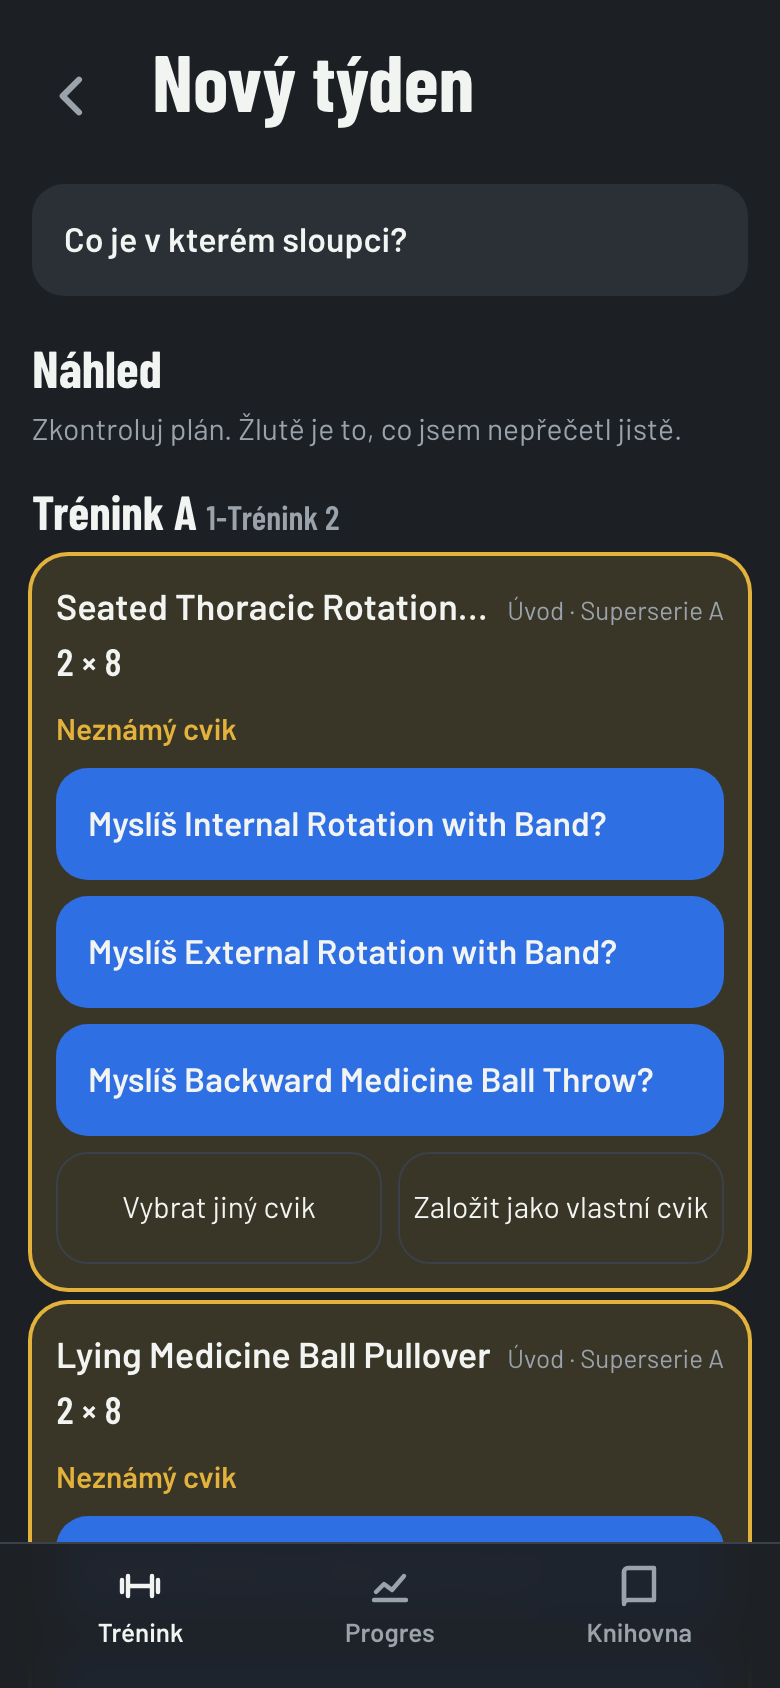
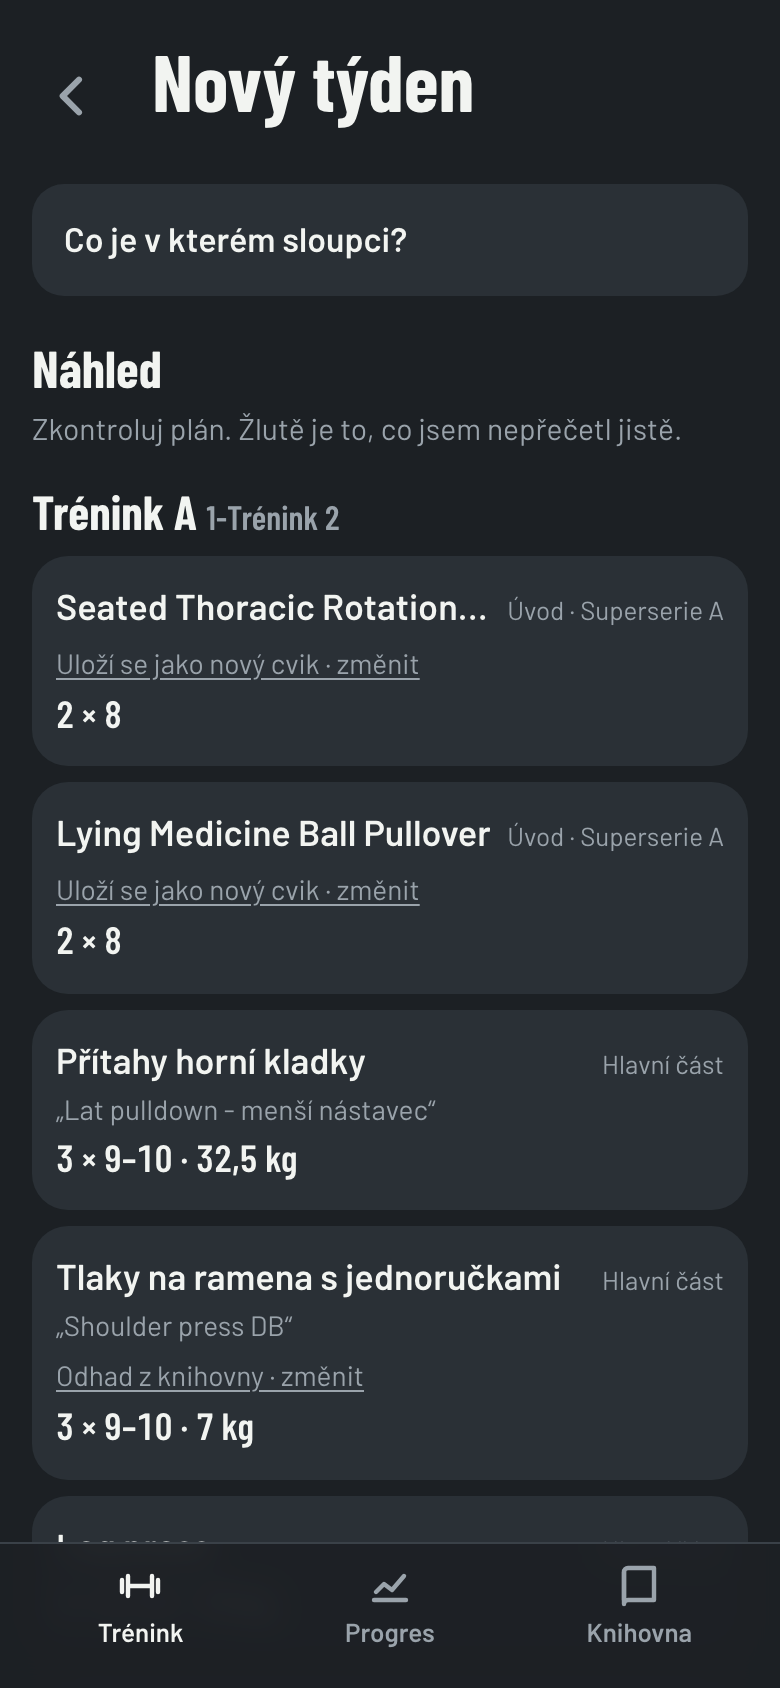
A3: import se na cviky neptá — odhad nebo nový vlastní cvik, změna volitelná

diff --git a/src/app/import/page.tsx b/src/app/import/page.tsx
@@ -8,7 +8,7 @@ import { matchExercise, type MatchIndex } from '@/domain/plan/match';
 import { fmtKg } from '@/domain/format';
 import { db } from '@/client/db';
 import { exerciseName } from '@/client/library';
-import { loadMatchIndex, resolveAll } from '@/client/importer';
+import { loadMatchIndex, previewMatch, resolveForSave } from '@/client/importer';
 import { mondayOf, reimportWeek, saveAlias, saveWeek } from '@/client/repo';
 import { SheetLinkInput } from '@/components/SheetLinkInput';
 import { XlsxFileInput } from '@/components/XlsxFileInput';
@@ -38,6 +38,7 @@ function Import() {
   const [index, setIndex] = useState<MatchIndex | null>(null);
   const [picks, setPicks] = useState<Record<string, string>>({});
   const [picking, setPicking] = useState<string | null>(null);
+  const [changing, setChanging] = useState<string | null>(null);
   const [weekStart, setWeekStart] = useState(mondayOf());
   const [done, setDone] = useState<string | null>(null);
   const created = params.get('created');
@@ -70,14 +71,14 @@ function Import() {
   const pick = async (key: string, sourceName: string, exerciseId: string) => {
     setPicks((p) => ({ ...p, [key]: exerciseId }));
     setPicking(null);
+    setChanging(null);
     await saveAlias(sourceName, exerciseId); // A3: potvrzení se uloží jako alias
     setIndex(await loadMatchIndex());
   };
 
   const save = async () => {
     if (!draft || !index || !source) return;
-    const resolved = resolveAll(draft.workouts, index, picks);
-    if (!resolved) return;
+    const resolved = await resolveForSave(draft.workouts, index, picks);
     if (source.spreadsheetId && mapping) await saveMappingFor(source.spreadsheetId, mapping);
     if (history) {
       const { saveBaselineWeek } = await import('@/client/baseline');
@@ -104,7 +105,6 @@ function Import() {
     );
   }
 
-  const allResolved = !!(draft && index && resolveAll(draft.workouts, index, picks));
   return (
     <Page>
       <PageTitle title={history ? t('import.historie') : t('import.nadpis')} back="/" sub={history ? t('import.historieText') : undefined} />
@@ -157,24 +157,29 @@ function Import() {
                 {w.exercises.map((e, ei) => {
                   const key = `${wi}:${ei}`;
                   const m = matchExercise(index, e.sourceName);
-                  const id = picks[key] ?? m.exerciseId;
+                  const { exerciseId: id, how } = previewMatch(index, e.sourceName, picks[key]);
                   const ex = id ? exById.get(id) : undefined;
+                  const open = changing === key;
                   return (
-                    <li key={key} data-testid="preview-row" className={`rounded-[18px] p-3 ${!id || e.issues.length ? 'bg-zluta/15 ring-2 ring-zluta' : 'bg-grafit'}`}>
+                    <li key={key} data-testid="preview-row" className={`rounded-[18px] p-3 ${e.issues.length ? 'bg-zluta/15 ring-2 ring-zluta' : 'bg-grafit'}`}>
                       <div className="flex items-baseline justify-between gap-2">
                         <p className="min-w-0 truncate text-[18px] font-semibold">{ex ? exerciseName(ex) : e.sourceName}</p>
                         <span className="flex-none text-[13px] text-ocel">{t(`blok.${e.blok ?? 'hlavni'}`)}{e.group ? ` · ${t('run.superserie', { group: e.group })}` : ''}</span>
                       </div>
                       {ex && normalizeEq(exerciseName(ex), e.sourceName) === false && <p className="text-[14px] text-ocel">„{e.sourceName}“</p>}
+                      {(how === 'odhad' || how === 'novy') && (
+                        <button type="button" onClick={() => setChanging(open ? null : key)} aria-expanded={open} className="mt-1 text-left text-[14px] text-ocel underline underline-offset-2">
+                          {how === 'odhad' ? t('import.odhad') : t('import.novyCvik')}
+                        </button>
+                      )}
                       <p className="font-display text-[19px] font-semibold tabular">{e.sets.length} × {e.sets[0].timeS != null ? `${e.sets[0].timeS} s` : e.sets[0].toFailure ? t('common.max') : e.sets[0].repsMin !== e.sets[0].repsMax ? `${e.sets[0].repsMin}–${e.sets[0].repsMax}` : e.sets[0].repsMax ?? '?'}
                         {e.sets.some((s) => s.weightKg) ? ` · ${[...new Set(e.sets.map((s) => s.weightKg).filter((x) => x != null))].map((x) => fmtKg(x!)).join('/')} kg` : ''}</p>
                       {e.issues.map((iss, k) => <p key={k} className="text-[15px] text-zluta">{t('import.nejasne', { raw: iss.raw })}</p>)}
-                      {!id && (
+                      {open && (
                         <div className="mt-2 flex flex-col gap-2">
-                          <p className="text-[15px] font-semibold text-zluta">{t('import.neznamy')}</p>
                           {m.suggestions.map((s) => (
                             <button key={s.exerciseId} type="button" onClick={() => pick(key, e.sourceName, s.exerciseId)}
-                              className="tap rounded-2xl bg-modra-akce px-4 text-left text-[17px] font-semibold">{t('import.navrh', { name: exerciseName(exById.get(s.exerciseId)) })}</button>
+                              className="tap rounded-2xl border border-linka px-4 text-left text-[17px]">{t('import.navrh', { name: exerciseName(exById.get(s.exerciseId)) })}</button>
                           ))}
                           <div className="flex gap-2">
                             <button type="button" onClick={() => setPicking(picking === key ? null : key)} className="tap flex-1 rounded-2xl border border-linka text-[15px]">{t('import.vybratJiny')}</button>
@@ -196,7 +201,7 @@ function Import() {
           <FormField label={history ? t('import.historieDatum') : t('import.tydenOd')}>
             <input type="date" value={weekStart} onChange={(e) => setWeekStart(e.target.value)} className={inputCls} />
           </FormField>
-          <Button big className="mt-4" disabled={!allResolved || !draft.workouts.length} onClick={save}>
+          <Button big className="mt-4" disabled={!draft.workouts.length} onClick={save}>
             <Check size={28} />{history ? t('import.historieUlozit') : t('import.ulozitTyden')}
           </Button>
         </>

diff --git a/src/client/importer.ts b/src/client/importer.ts
@@ -1,11 +1,12 @@
 'use client';
 import sample from '../../fixtures/ukazkovy-trenink-a.json';
-import { buildMatchIndex, matchExercise, type MatchIndex } from '@/domain/plan/match';
+import { autoPick, buildMatchIndex, matchExercise, type MatchIndex } from '@/domain/plan/match';
+import { normalizeName } from '@/lib/normalize';
 import type { DraftWorkout } from '@/domain/plan/parse-sheet';
 import type { Blok } from '@/domain/types';
 import { db } from './db';
 import { ensureLibrary } from './library';
-import { mondayOf, saveWeek, type ResolvedWorkout } from './repo';
+import { mondayOf, saveCustomExercise, saveWeek, type ResolvedWorkout } from './repo';
 
 export async function loadMatchIndex(): Promise<MatchIndex> {
   await ensureLibrary();
@@ -43,6 +44,44 @@ export function resolveAll(workouts: DraftWorkout[], index: MatchIndex, picks: R
     for (const [ei, e] of w.exercises.entries()) {
       const id = picks[`${wi}:${ei}`] ?? matchExercise(index, e.sourceName).exerciseId;
       if (!id) return null;
+      exs.push({ ...e, exerciseId: id });
+    }
+    out.push({ label: w.label, title: w.title, exercises: exs });
+  }
+  return out;
+}
+
+/** Jak import cvik spáruje: jistě, odhadem, nový vlastní cvik, nebo jak ho uživatel vybral. */
+export type MatchHow = 'jisty' | 'odhad' | 'novy' | 'vybrany';
+
+export function previewMatch(index: MatchIndex, sourceName: string, pick?: string): { exerciseId: string | null; how: MatchHow } {
+  if (pick) return { exerciseId: pick, how: 'vybrany' };
+  const m = matchExercise(index, sourceName);
+  if (m.exerciseId) return { exerciseId: m.exerciseId, how: 'jisty' };
+  const auto = autoPick(m);
+  return auto ? { exerciseId: auto, how: 'odhad' } : { exerciseId: null, how: 'novy' };
+}
+
+/**
+ * Import bez ptaní: jistá shoda nebo dobrý odhad z knihovny; jinak se založí vlastní cvik pod trenérovým názvem
+ * (stejný název v jednom importu = jeden cvik, příště ho najde přesná shoda).
+ */
+export async function resolveForSave(workouts: DraftWorkout[], index: MatchIndex, picks: Record<string, string> = {}): Promise<ResolvedWorkout[]> {
+  const created = new Map<string, string>();
+  const out: ResolvedWorkout[] = [];
+  for (const [wi, w] of workouts.entries()) {
+    const exs = [];
+    for (const [ei, e] of w.exercises.entries()) {
+      let id = previewMatch(index, e.sourceName, picks[`${wi}:${ei}`]).exerciseId;
+      if (!id) {
+        const key = normalizeName(e.sourceName);
+        id = created.get(key) ?? null;
+        if (!id) {
+          const type = e.sets.some((x) => x.timeS != null) ? 'time' : e.bodyweight ? 'reps' : 'weight_reps';
+          id = await saveCustomExercise({ name_cs: e.sourceName.trim(), type });
+          created.set(key, id);
+        }
+      }
       exs.push({ ...e, exerciseId: id });
     }
     out.push({ label: w.label, title: w.title, exercises: exs });

diff --git a/docs/rozhodnuti.md b/docs/rozhodnuti.md
@@ -37,3 +37,4 @@ Když s něčím nesouhlasíš, napiš a změním to.
 | 30 | Propojení Stravy bez cookie | Uživatel se do callbacku nese v šifrovaném `state` (platí 15 min). | Supabase drží přihlášení v prohlížeči, ne v cookie. |
 | 31 | Import souboru XLSX | Trenér posílá tréninky jako přílohy XLSX, ne odkaz na sheet. Import má proto první volbu „Soubor od trenéra (XLSX)“: vybereš jeden nebo víc souborů, každý soubor (list) = jeden trénink týdne, nadpis podle názvu souboru. Soubor se čte v telefonu (bez serveru a bez knihovny, ZIP rozbalí prohlížeč). Týden se uloží se zdrojem `paste`. Odkaz na Google Sheet a vložení tabulky zůstávají. | Skutečný vzorek od trenéra (`fixtures/trenink-2.xlsx`); PRD A1 počítal se sheetem, ale cíl „otevřít trénink bez sheetu“ platí stejně. Funguje i offline. |
 | 32 | Parser podle vzorku | Bez hlavičky vyhraje sloupec s nejvíc názvy cviků; samotné „A1“ ve sloupci cviků vezme název z nejbližší textové buňky vpravo; zbylé textové sloupce vpravo jsou poznámky (závorky se odstraní); superserie se nerozdělí mezi bloky. | Přesně tak vypadá trenérův soubor (sloučené buňky C–F, A1/A2 ve vlastním sloupci). |
+| 33 | Párování bez ptaní | Import se na párování cviků neptá. Jistá shoda nebo alias → cvik z knihovny; odhad se skóre ≥ 0,72 se vezme sám (v náhledu „Odhad z knihovny · změnit“); slabší shoda → založí se vlastní cvik pod trenérovým názvem („Uloží se jako nový cvik · změnit“). Párování porovnává jádro názvu: bez poznámky za pomlčkou, zkratky DB/KB/BB rozepsané, bez slov „na stroji“, „with“ apod. Uložit jde hned. | Přání uživatele po prvním importu: radši nejistota než ptaní. Na kartě je vždy trenérův název (rozhodnutí 4), takže odhad nic nezkreslí; vlastní cvik příště najde přesná shoda. |

diff --git a/docs/zmeny.md b/docs/zmeny.md
@@ -92,3 +92,14 @@ a test v posilovně na iPhonu.
 **Na tobě**
 - Anglické názvy cviků („Lat pulldown - menší nástavec“) poprvé spáruješ s knihovnou ťuknutím na návrh; appka si párování pamatuje (A3).
 - Pošli i Trénink 1, ať je parser ověřený na dvou souborech.
+
+## Párování cviků bez ptaní (5. 11. 2026)
+
+**Hotové**
+- Import se na cviky neptá. Z trenérova souboru najde samo 7 z 9 cviků (např. „Zakopávání na stroji“ → zakopávání, „Shoulder press DB“ → tlaky na ramena s jednoručkami, „Seated cable row - V adapter“ → veslování na kladce). Dva cviky s medicinbalem, které knihovna nemá, se založí jako vlastní pod trenérovým názvem.
+- Odhady a nové cviky jsou v náhledu označené a jdou změnit jedním ťuknutím, ale nemusí.
+- Testy už nikdy nesáhnou na ostrou databázi: adresa je v `.env.seed.local` místo `.env.local`.
+
+**Ověření**
+- Vitest: jádro názvu, automatický výběr pro názvy od trenéra, slabá shoda se nehádá.
+- Playwright: XLSX od trenéra se uloží bez jediného ťuknutí na párování a na domově je všech 9 cviků.

diff --git a/docs/setup.md b/docs/setup.md
@@ -12,6 +12,9 @@ Hodnoty ukládej do Vercelu (Settings → Environment Variables), **nikdy do git
 3. **Settings → API:** zkopíruj `Project URL` → `NEXT_PUBLIC_SUPABASE_URL` a `anon public` klíč → `NEXT_PUBLIC_SUPABASE_ANON_KEY`.
 4. **Settings → Database → Connection string → Transaction pooler** (port 6543): zkopíruj URI, doplň heslo → `DATABASE_URL`.
 5. Naplň knihovnu cviků (jednou, z počítače): `DATABASE_URL='…' pnpm seed:exercises`.
+   Adresu produkční databáze drž lokálně jen v `.env.seed.local` (git ho ignoruje a Next.js ho nenačítá),
+   **nikdy v `.env.local`**: ten si načte i `pnpm start` a e2e testy by pak mířily na ostrou databázi.
+   Použití: `set -a; . ./.env.seed.local; set +a; pnpm seed:exercises`.
 6. **Authentication → URL Configuration:** Site URL = adresa z Vercelu (např. `https://lift-it.vercel.app`),
    Redirect URLs přidej `https://lift-it.vercel.app/**` a `http://localhost:3000/**`.
 7. **Authentication → Providers → Google:** zapni, vlož Client ID a Secret z kroku 2.6. Zkopíruj odtud *Callback URL*
